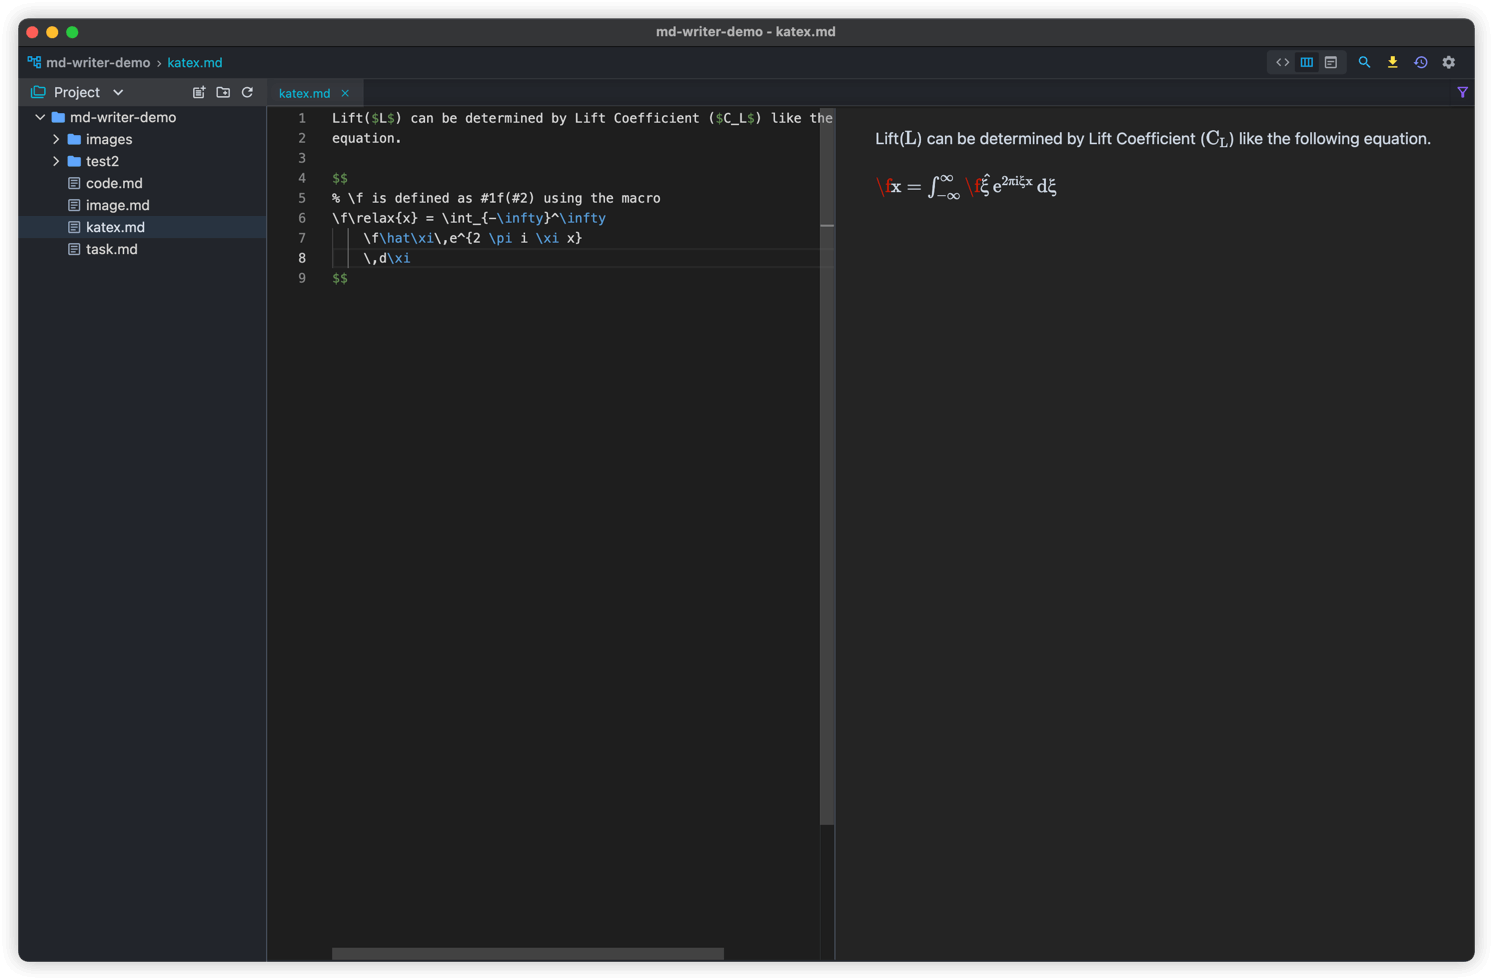
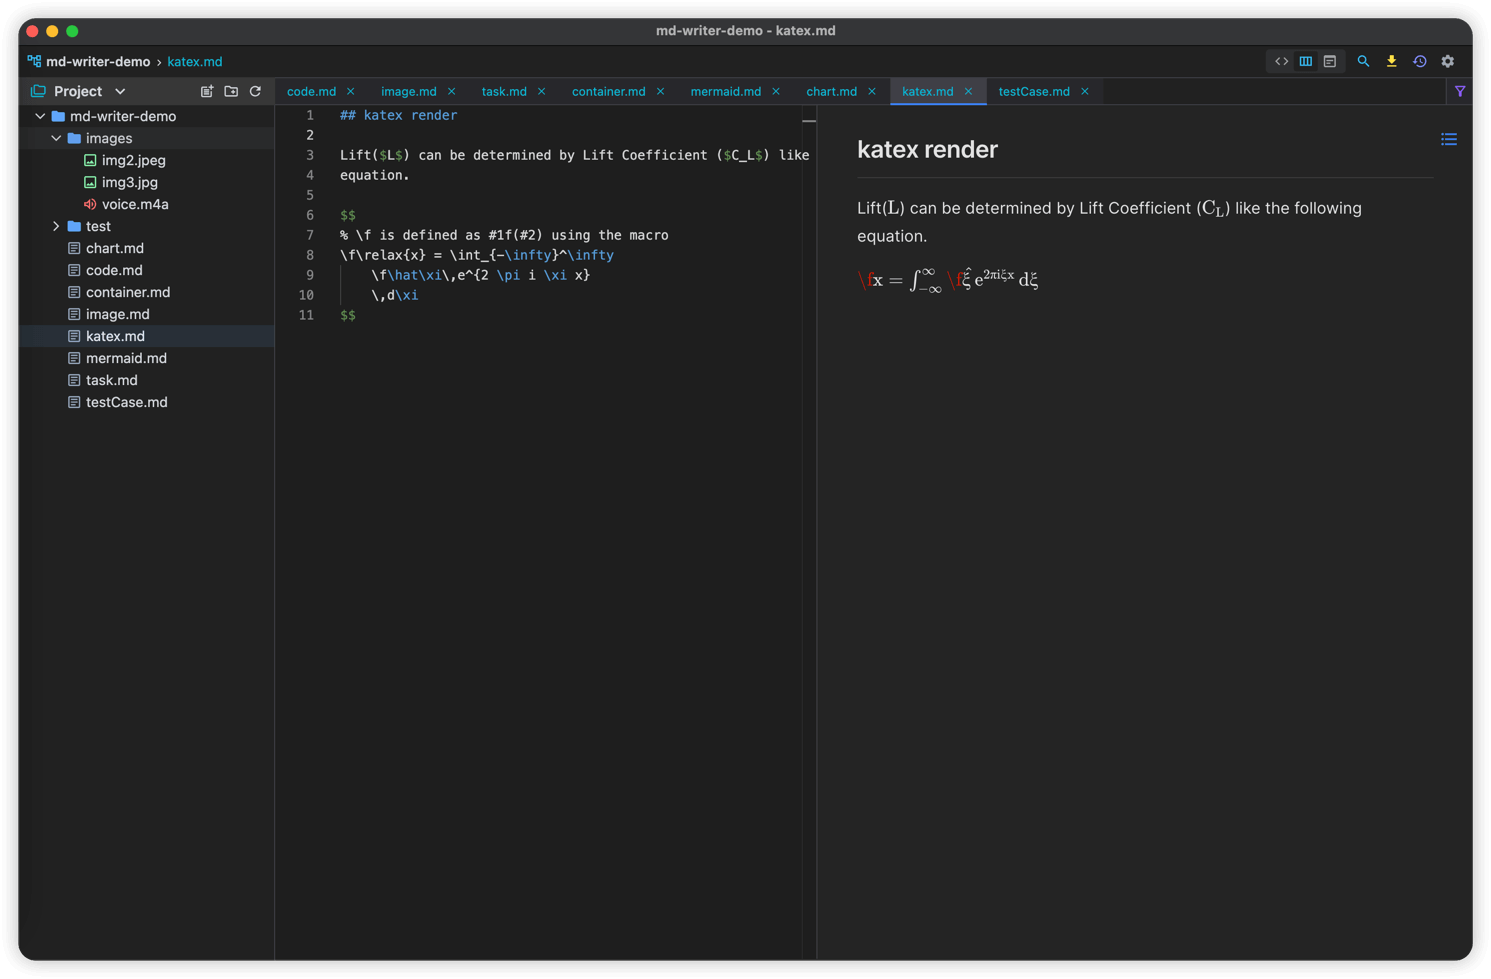
feat: light mode 100%

diff --git a/src/View/Search/Search.tsx b/src/View/Search/Search.tsx
@@ -8,6 +8,7 @@ import {Button} from '@mui/material'
 import {action} from 'mobx'
 import {SearchCode} from '@/View/Search/Code'
 import {configStore} from '@/store/config'
+import {ScrollBox} from '@/components/ScrollBox'
 
 export const Search = observer(() => {
   const timer = useRef(0)
@@ -117,35 +118,37 @@ export const Search = observer(() => {
           </div>
         </div>
         <div className={'dark:bg-zinc-900 h-1 bg-slate-100'}></div>
-        <div className={'max-h-40 min-h-[100px] dark:bg-zinc-800 bg-white relative overflow-y-auto'}>
-          {!state.results.length && !state.searching &&
-            <span className={'absolute left-1/2 top-1/2 -translate-x-1/2 -translate-y-1/2 text-xs text-zinc-500'}>
+        <div className={'max-h-40 min-h-[100px] dark:bg-zinc-800 bg-white relative'}>
+          <ScrollBox mode={'y'} scrollBoxStyle={{maxHeight: 160, minHeight: 100}}>
+            {!state.results.length && !state.searching &&
+              <span className={'absolute left-1/2 top-1/2 -translate-x-1/2 -translate-y-1/2 text-xs text-zinc-500'}>
               {state.query ? configStore.getI18nText('search.notFind') : configStore.getI18nText('search.tip')}
             </span>
-          }
-          {state.results.map((r, i) =>
-            <div
-              className={`leading-5 py-1 text-sm flex justify-between px-3 cursor-pointer ${i == state.selectIndex ? 'bg-gray-500/10': ''}`}
-              onClick={(e) => {
-                if (e.detail === 1) {
-                  state.setIndex(i)
-                }
-                if (e.detail === 2) {
-                  state.openNote()
-                }
-              }}
-              key={i}>
-              <div className={'flex-1'} dangerouslySetInnerHTML={{__html: state.highlight(r.lineText, r.matchText)}}></div>
-              <div className={'font-semibold text-xs text-gray-500 leading-5 ml-2'}>
+            }
+            {state.results.map((r, i) =>
+              <div
+                className={`leading-5 py-1 text-sm flex justify-between px-3 cursor-pointer ${i == state.selectIndex ? 'bg-gray-500/10': ''}`}
+                onClick={(e) => {
+                  if (e.detail === 1) {
+                    state.setIndex(i)
+                  }
+                  if (e.detail === 2) {
+                    state.openNote()
+                  }
+                }}
+                key={i}>
+                <div className={'flex-1'} dangerouslySetInnerHTML={{__html: state.highlight(r.lineText, r.matchText)}}></div>
+                <div className={'font-semibold text-xs text-gray-500 leading-5 ml-2'}>
                 <span>
                   {r.node.name}
                 </span>
-                <span className={'ml-2'}>
+                  <span className={'ml-2'}>
                   {r.line}
                 </span>
+                </div>
               </div>
-            </div>
-          )}
+            )}
+          </ScrollBox>
         </div>
         <div className={`${!state.selected ? 'hidden' : ''}`}>
           <div className={'px-3 text-gray-600 text-xs leading-6'}>{state.selected?.node.path}</div>

diff --git a/src/components/Recent.tsx b/src/components/Recent.tsx
@@ -11,6 +11,7 @@ import {message} from '@/components/message'
 import {configStore} from '@/store/config'
 import {stateStore} from '@/store/state'
 import {$db} from '@/database'
+import {ScrollBox} from '@/components/ScrollBox'
 
 export const Recent = observer(() => {
   const [state, setState] = useSetState({
@@ -41,7 +42,7 @@ export const Recent = observer(() => {
     <div className={'fixed left-1/2 top-1/2 -translate-y-1/2 -translate-x-1/2 z-10'} id={'recent'}>
       <div className={'w-full ctx overflow-auto w-64'}>
         <div className={'leading-5 bg-gray-700 text-xs text-center text-gray-300'}>Recent Books</div>
-        <div className={'overflow-y-auto h-72'}>
+        <ScrollBox mode={'y'} className={'h-72'}>
           {!state.recent.length &&
             <div className={'text-center mt-10 text-base text-light-gray'}>
               {configStore.getI18nText('noOpenRecords')}
@@ -53,7 +54,7 @@ export const Recent = observer(() => {
               key={i}
               onClick={() => {
                 if (!existsSync(r)) {
-                  message(configStore.getI18nText('folderEmpty'),{type: 'error'})
+                  message(configStore.getI18nText('folderEmpty'), {type: 'error'})
                 } else {
                   treeStore.openDir(r)
                   close()
@@ -83,7 +84,7 @@ export const Recent = observer(() => {
               </div>
             </div>
           )}
-        </div>
+        </ScrollBox>
       </div>
     </div>
   )

diff --git a/src/components/Finder.tsx b/src/components/Finder.tsx
@@ -7,6 +7,7 @@ import {TreeIcon} from '@/Tree/Icon'
 import {configStore} from '@/store/config'
 import {stateStore} from '@/store/state'
 import {useObserveKey} from '@/utils/hooks'
+import {ScrollBox} from '@/components/ScrollBox'
 
 export const Finder = observer(() => {
   const [state, setState] = useSetState({
@@ -40,7 +41,7 @@ export const Finder = observer(() => {
       }
     }
     if (treeStore.activeNode) nodes.unshift(treeStore.activeNode)
-    setState({nodes})
+    setState({nodes, filterNodes: nodes.filter(n => n.name.includes(state.query))})
     window.addEventListener('click', close)
     setTimeout(() => {
       input.current?.focus()
@@ -72,7 +73,9 @@ export const Finder = observer(() => {
             />
           </div>
         </div>
-        <div className={'overflow-y-auto max-h-[300px]'}>
+        <ScrollBox mode={'y'} scrollBoxStyle={{
+          maxHeight: 350
+        }}>
           {state.filterNodes.map(n =>
             <div
               className={`flex h-5 px-2 items-center cursor-pointer duration-100 ${n === treeStore.activeNode ? 'dark:bg-gray-700/30 bg-gray-500/20' : 'dark:hover:bg-gray-500/20 hover:bg-gray-400/20'}`}
@@ -88,7 +91,7 @@ export const Finder = observer(() => {
               </span>
             </div>
           )}
-        </div>
+        </ScrollBox>
       </div>
     </div>
   )

diff --git a/src/components/ScrollBox.tsx b/src/components/ScrollBox.tsx
@@ -1,6 +1,6 @@
 import {CSSProperties, ReactNode, useCallback, useEffect, useRef} from 'react'
 import {useGetSetState} from 'react-use'
-export function ScrollBox({children, className, mode, containerId, smooth, verticalBarStyle, horizontalBarStyle}: {
+export function ScrollBox({children, className, mode, containerId, smooth, verticalBarStyle, horizontalBarStyle, scrollBoxStyle}: {
   children: ReactNode
   mode: 'x' | 'y' | 'xy'
   className?: string
@@ -8,6 +8,7 @@ export function ScrollBox({children, className, mode, containerId, smooth, verti
   smooth?: boolean
   verticalBarStyle?: CSSProperties
   horizontalBarStyle?: CSSProperties
+  scrollBoxStyle?: CSSProperties
 }) {
   const contentRef = useRef<HTMLDivElement>(null)
   const boxRef = useRef<HTMLDivElement>(null)
@@ -76,6 +77,7 @@ export function ScrollBox({children, className, mode, containerId, smooth, verti
       <div
         ref={boxRef}
         id={containerId}
+        style={scrollBoxStyle}
         className={`hide-scrollbar ${mode === 'x' ? 'overflow-x-auto' : mode === 'y' ? 'overflow-y-auto' : 'overflow-auto'} h-full w-full ${smooth ? 'scroll-smooth' : ''}`}
         onScroll={scroll}
       >

diff --git a/src/Editor/EditorTabs.tsx b/src/Editor/EditorTabs.tsx
@@ -5,32 +5,10 @@ import FilterAltOutlinedIcon from '@mui/icons-material/FilterAltOutlined'
 import {Tooltip} from '@mui/material'
 import {MetaKey} from '@/utils/Widget'
 import {stateStore} from '@/store/state'
-import {useCallback, useEffect} from 'react'
-import {useObserveKey} from '@/utils/hooks'
-import {useSetState} from 'react-use'
+
 export const EditorTabs = observer((props: {
   treeWidth: number
 }) => {
-  const [state, setState] = useSetState({
-    activeMarkLeft: 0,
-    activeMarkWidth: 0
-  })
-  const setMarkPos = useCallback(() => {
-    if (treeStore.activePath) {
-      const tab = document.querySelector(`[data-tab="${treeStore.activePath}"]`) as HTMLDivElement
-      setState({
-        activeMarkLeft: tab.offsetLeft,
-        activeMarkWidth: tab.clientWidth
-      })
-    }
-  }, [])
-  useObserveKey(treeStore, 'activePath', e => {
-    if (e.newValue) {
-      setTimeout(() => {
-        setMarkPos()
-      })
-    }
-  })
   return (
     <div className={'h-7 w-full relative'}>
       <div

diff --git a/src/Editor/completion/lang.ts b/src/Editor/completion/lang.ts
@@ -95,6 +95,19 @@ export const languages = [
   'xml',
   'yaml'
 ]
+const getInsertText = (lang: string) => {
+  if (lang === 'mermaid.shape') {
+    return `${lang}
+flowchart LR
+A[Hard] -->|Text| B(Round)
+B --> C{Decision}
+C -->|One| D[Result 1]
+C -->|Two| E[Result 2]
+\`\`\``
+  } else {
+    return `${lang}\n\$\{1\}\n\`\`\``
+  }
+}
 export const langCompletion:ProvideCompletion = (model, position) => {
   let suggestions:CompletionItem[] = []
   const word = model.getWordAtPosition(position)
@@ -109,7 +122,7 @@ export const langCompletion:ProvideCompletion = (model, position) => {
       return {
         label: `${l}`,
         kind: CompletionItemKind.Function,
-        insertText: `${l}\n\$\{1\}\n\`\`\``,
+        insertText: getInsertText(l),
         insertTextRules: CompletionItemInsertTextRule.InsertAsSnippet,
         range: range
       }

diff --git a/src/Render/List.tsx b/src/Render/List.tsx
@@ -25,8 +25,8 @@ export const DocList = observer(() => {
     window.setTimeout(() => {
       const box = document.querySelector('#doc-container')! as HTMLElement
       const content = document.querySelector('#content')! as HTMLElement
-      if (box && content) {
-        const rect = box?.getClientRects()?.[0]
+      const rect = box?.getClientRects()?.[0]
+      if (box && content && rect) {
         if (stateStore.showSubNav) {
           setState({visible: true, left: rect.left + content.offsetLeft + content.clientWidth - 120, top: 120})
         } else {

diff --git a/src/TopBar/History/History.tsx b/src/TopBar/History/History.tsx
@@ -18,6 +18,7 @@ import {mediaType} from '@/utils/mediaType'
 import {extname} from 'path'
 import BlockOutlinedIcon from '@mui/icons-material/BlockOutlined'
 import {configStore} from '@/store/config'
+import {ScrollBox} from '@/components/ScrollBox'
 
 export const History = observer(() => {
   const editorElRef = useRef<HTMLDivElement>(null)

diff --git a/src/store/tree.ts b/src/store/tree.ts
@@ -371,6 +371,7 @@ class TreeStore {
     if (!existsSync(path)) return
     this.tabs = []
     this.tree = []
+    this.nodeMap.clear()
     this.activePath = undefined
     this.selectPath = undefined
     this.root = observable({

diff --git a/README.md b/README.md
@@ -6,14 +6,14 @@ A simple markdown technical note **[Download](https://github.com/1943time/markdo
 English | [简体中文](README.zh-CN.md)
 
 ![](./help/img.png)
-
+![](./help/img_light.png)
 ## Introduction
 - Using [monaco-editor](https://microsoft.github.io) as the editor, some enhancements have been made on this basis, such as: code completion, link jumping, list indentation, table formatting, etc.
 - The renderer uses the [vitepress](https://github.com/vuejs/vitepress) style
 
 ## Functions
 - Gfm syntax support
-- print pdf
+- dark and light theme
 - heading map
 - [Footnote](https://github.blog/changelog/2021-09-30-footnotes-now-supported-in-markdown-fields/)
 - emoji
@@ -21,6 +21,7 @@ English | [简体中文](README.zh-CN.md)
 - [custom containers](#containers)
 - [katex and code completion](#katex)
 - [mermaid diagrams](#mermaid)   Related Links [github](https://github.com/mermaid-js/mermaid)
+- print pdf
 - Advanced Search and File lookup
 - Free adjustment of file tree
 - History and rollback

diff --git a/README.zh-CN.md b/README.zh-CN.md
@@ -6,14 +6,14 @@
 [English](README.md) | 简体中文
 
 ![](./help/img.png)
-
+![](./help/img_light.png)
 ## 介绍
 - 使用[monaco-editor](https://microsoft.github.io)作为编辑器，在此基础上做了一定增强，例如：代码补全，链接跳转，列表缩进，表格格式化等
 - 渲染器使用了[vitepress](https://github.com/vuejs/vitepress)的风格
 
 ## 功能
 - Gfm 语法支持
-- pdf 导出
+- 暗黑和明亮主题
 - 标题导航
 - [脚注](https://github.blog/changelog/2021-09-30-footnotes-now-supported-in-markdown-fields/)
 - 表情
@@ -25,6 +25,7 @@
 - 自由调整文件树
 - 历史记录与回滚
 - 剪贴板文件直接拷贝入编辑器中
+- pdf 导出
 
 ## Mac 系统无法打开
 > 非常抱歉在项目的早期阶段，还没有进行mac 代码签名  
